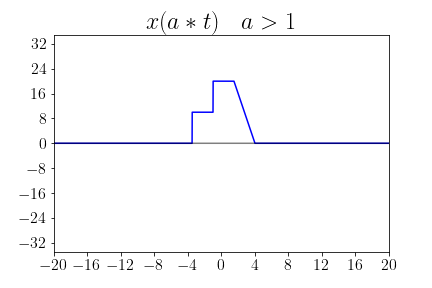
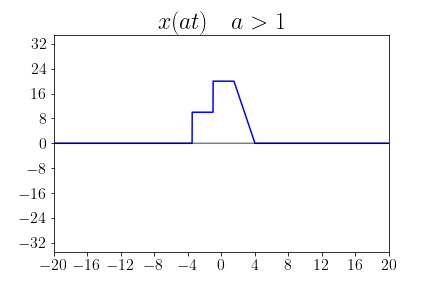
Update documentation

Changed region(s): [[0.331, 0.0312, 0.6921, 0.125]]

diff --git a/courses/dsp/systems.html b/courses/dsp/systems.html
@@ -909,21 +909,6 @@ table th:nth-of-type(2) {
 <span class="n">a</span><span class="o">=</span><span class="mi">2</span>
 
 <span class="n">fig</span><span class="p">,</span> <span class="n">ax</span> <span class="o">=</span> <span class="n">plt</span><span class="o">.</span><span class="n">subplots</span><span class="p">(</span><span class="mi">1</span><span class="p">,</span> <span class="mi">1</span><span class="p">)</span>
-<span class="n">mpl_axes_plot</span><span class="p">(</span><span class="n">ax</span><span class="p">,</span> <span class="n">f</span><span class="o">.</span><span class="n">subs</span><span class="p">(</span><span class="n">t</span><span class="p">,</span> <span class="n">t</span><span class="o">*</span><span class="n">a</span><span class="p">),</span> <span class="p">(</span><span class="n">t</span><span class="p">,</span> <span class="o">-</span><span class="mi">20</span><span class="p">,</span> <span class="mi">20</span><span class="p">),</span> <span class="n">color</span><span class="o">=</span><span class="s1">&#39;b&#39;</span><span class="p">)</span>
-<span class="n">ax</span><span class="o">.</span><span class="n">set_xlim</span><span class="p">(</span><span class="o">-</span><span class="mi">20</span><span class="p">,</span> <span class="mi">20</span><span class="p">,</span> <span class="mf">0.2</span><span class="p">)</span>
-<span class="n">ax</span><span class="o">.</span><span class="n">set_ylim</span><span class="p">(</span><span class="o">-</span><span class="mi">35</span><span class="p">,</span> <span class="mi">35</span><span class="p">,</span> <span class="mf">0.2</span><span class="p">)</span>
-<span class="n">ax</span><span class="o">.</span><span class="n">set_title</span><span class="p">(</span><span class="sa">r</span><span class="s1">&#39;$x(a*t) \quad a&gt;1$&#39;</span><span class="p">)</span>
-<span class="n">plt</span><span class="o">.</span><span class="n">savefig</span><span class="p">(</span><span class="n">os</span><span class="o">.</span><span class="n">path</span><span class="o">.</span><span class="n">join</span><span class="p">(</span><span class="n">saved_dir</span><span class="p">,</span><span class="s1">&#39;signals_a_lt_1_gt_0_ct.png&#39;</span><span class="p">));</span> <span class="n">plt</span><span class="o">.</span><span class="n">close</span><span class="p">()</span>
-
-<span class="n">fig</span><span class="p">,</span> <span class="n">ax</span> <span class="o">=</span> <span class="n">plt</span><span class="o">.</span><span class="n">subplots</span><span class="p">(</span><span class="mi">1</span><span class="p">,</span> <span class="mi">1</span><span class="p">)</span>
-<span class="n">mpl_axes_stem</span><span class="p">(</span><span class="n">ax</span><span class="p">,</span> <span class="n">f</span><span class="o">.</span><span class="n">subs</span><span class="p">(</span><span class="n">t</span><span class="p">,</span> <span class="n">t</span><span class="o">*</span><span class="n">a</span><span class="p">),</span> <span class="p">(</span><span class="n">t</span><span class="p">,</span> <span class="o">-</span><span class="mi">30</span><span class="p">,</span> <span class="mi">30</span><span class="p">,</span> <span class="mi">1</span><span class="p">),</span> <span class="n">linefmt</span><span class="o">=</span><span class="s1">&#39;b&#39;</span><span class="p">,</span> <span class="n">markerfmt</span><span class="o">=</span><span class="s1">&#39;bo&#39;</span><span class="p">)</span>
-<span class="n">ax</span><span class="o">.</span><span class="n">set_xlim</span><span class="p">(</span><span class="o">-</span><span class="mi">20</span><span class="p">,</span> <span class="mi">20</span><span class="p">,</span> <span class="mf">0.2</span><span class="p">)</span>
-<span class="n">ax</span><span class="o">.</span><span class="n">set_ylim</span><span class="p">(</span><span class="o">-</span><span class="mi">35</span><span class="p">,</span> <span class="mi">35</span><span class="p">,</span> <span class="mf">0.2</span><span class="p">)</span>
-<span class="n">ax</span><span class="o">.</span><span class="n">set_title</span><span class="p">(</span><span class="sa">r</span><span class="s1">&#39;$x[a*n] \quad a&gt;1$&#39;</span><span class="p">)</span>
-<span class="n">plt</span><span class="o">.</span><span class="n">savefig</span><span class="p">(</span><span class="n">os</span><span class="o">.</span><span class="n">path</span><span class="o">.</span><span class="n">join</span><span class="p">(</span><span class="n">saved_dir</span><span class="p">,</span><span class="s1">&#39;signals_a_lt_1_gt_0_dt.png&#39;</span><span class="p">));</span> <span class="n">plt</span><span class="o">.</span><span class="n">close</span><span class="p">()</span>
-
-
-<span class="n">fig</span><span class="p">,</span> <span class="n">ax</span> <span class="o">=</span> <span class="n">plt</span><span class="o">.</span><span class="n">subplots</span><span class="p">(</span><span class="mi">1</span><span class="p">,</span> <span class="mi">1</span><span class="p">)</span>
 <span class="n">mpl_axes_plot</span><span class="p">(</span><span class="n">ax</span><span class="p">,</span> <span class="n">f</span><span class="o">.</span><span class="n">subs</span><span class="p">(</span><span class="n">t</span><span class="p">,</span> <span class="n">t</span><span class="o">/</span><span class="n">a</span><span class="p">),</span> <span class="p">(</span><span class="n">t</span><span class="p">,</span> <span class="o">-</span><span class="mi">20</span><span class="p">,</span> <span class="mi">20</span><span class="p">),</span> <span class="n">color</span><span class="o">=</span><span class="s1">&#39;b&#39;</span><span class="p">)</span>
 <span class="n">ax</span><span class="o">.</span><span class="n">set_xlim</span><span class="p">(</span><span class="o">-</span><span class="mi">20</span><span class="p">,</span> <span class="mi">20</span><span class="p">,</span> <span class="mf">0.2</span><span class="p">)</span>
 <span class="n">ax</span><span class="o">.</span><span class="n">set_ylim</span><span class="p">(</span><span class="o">-</span><span class="mi">35</span><span class="p">,</span> <span class="mi">35</span><span class="p">,</span> <span class="mf">0.2</span><span class="p">)</span>
@@ -936,6 +921,20 @@ table th:nth-of-type(2) {
 <span class="n">ax</span><span class="o">.</span><span class="n">set_ylim</span><span class="p">(</span><span class="o">-</span><span class="mi">35</span><span class="p">,</span> <span class="mi">35</span><span class="p">,</span> <span class="mf">0.2</span><span class="p">)</span>
 <span class="n">ax</span><span class="o">.</span><span class="n">set_title</span><span class="p">(</span><span class="sa">r</span><span class="s1">&#39;$x[n/a] \quad a&gt;1$&#39;</span><span class="p">)</span>
 <span class="n">plt</span><span class="o">.</span><span class="n">savefig</span><span class="p">(</span><span class="n">os</span><span class="o">.</span><span class="n">path</span><span class="o">.</span><span class="n">join</span><span class="p">(</span><span class="n">saved_dir</span><span class="p">,</span><span class="s1">&#39;signals_a_gt_1_dt.png&#39;</span><span class="p">));</span> <span class="n">plt</span><span class="o">.</span><span class="n">close</span><span class="p">()</span>
+
+<span class="n">fig</span><span class="p">,</span> <span class="n">ax</span> <span class="o">=</span> <span class="n">plt</span><span class="o">.</span><span class="n">subplots</span><span class="p">(</span><span class="mi">1</span><span class="p">,</span> <span class="mi">1</span><span class="p">)</span>
+<span class="n">mpl_axes_plot</span><span class="p">(</span><span class="n">ax</span><span class="p">,</span> <span class="n">f</span><span class="o">.</span><span class="n">subs</span><span class="p">(</span><span class="n">t</span><span class="p">,</span> <span class="n">t</span><span class="o">*</span><span class="n">a</span><span class="p">),</span> <span class="p">(</span><span class="n">t</span><span class="p">,</span> <span class="o">-</span><span class="mi">20</span><span class="p">,</span> <span class="mi">20</span><span class="p">),</span> <span class="n">color</span><span class="o">=</span><span class="s1">&#39;b&#39;</span><span class="p">)</span>
+<span class="n">ax</span><span class="o">.</span><span class="n">set_xlim</span><span class="p">(</span><span class="o">-</span><span class="mi">20</span><span class="p">,</span> <span class="mi">20</span><span class="p">,</span> <span class="mf">0.2</span><span class="p">)</span>
+<span class="n">ax</span><span class="o">.</span><span class="n">set_ylim</span><span class="p">(</span><span class="o">-</span><span class="mi">35</span><span class="p">,</span> <span class="mi">35</span><span class="p">,</span> <span class="mf">0.2</span><span class="p">)</span>
+<span class="n">ax</span><span class="o">.</span><span class="n">set_title</span><span class="p">(</span><span class="sa">r</span><span class="s1">&#39;$x(at) \quad a&gt;1$&#39;</span><span class="p">)</span>
+<span class="n">plt</span><span class="o">.</span><span class="n">savefig</span><span class="p">(</span><span class="n">os</span><span class="o">.</span><span class="n">path</span><span class="o">.</span><span class="n">join</span><span class="p">(</span><span class="n">saved_dir</span><span class="p">,</span><span class="s1">&#39;signals_a_lt_1_gt_0_ct.png&#39;</span><span class="p">));</span> <span class="n">plt</span><span class="o">.</span><span class="n">close</span><span class="p">()</span>
+
+<span class="n">fig</span><span class="p">,</span> <span class="n">ax</span> <span class="o">=</span> <span class="n">plt</span><span class="o">.</span><span class="n">subplots</span><span class="p">(</span><span class="mi">1</span><span class="p">,</span> <span class="mi">1</span><span class="p">)</span>
+<span class="n">mpl_axes_stem</span><span class="p">(</span><span class="n">ax</span><span class="p">,</span> <span class="n">f</span><span class="o">.</span><span class="n">subs</span><span class="p">(</span><span class="n">t</span><span class="p">,</span> <span class="n">t</span><span class="o">*</span><span class="n">a</span><span class="p">),</span> <span class="p">(</span><span class="n">t</span><span class="p">,</span> <span class="o">-</span><span class="mi">30</span><span class="p">,</span> <span class="mi">30</span><span class="p">,</span> <span class="mi">1</span><span class="p">),</span> <span class="n">linefmt</span><span class="o">=</span><span class="s1">&#39;b&#39;</span><span class="p">,</span> <span class="n">markerfmt</span><span class="o">=</span><span class="s1">&#39;bo&#39;</span><span class="p">)</span>
+<span class="n">ax</span><span class="o">.</span><span class="n">set_xlim</span><span class="p">(</span><span class="o">-</span><span class="mi">20</span><span class="p">,</span> <span class="mi">20</span><span class="p">,</span> <span class="mf">0.2</span><span class="p">)</span>
+<span class="n">ax</span><span class="o">.</span><span class="n">set_ylim</span><span class="p">(</span><span class="o">-</span><span class="mi">35</span><span class="p">,</span> <span class="mi">35</span><span class="p">,</span> <span class="mf">0.2</span><span class="p">)</span>
+<span class="n">ax</span><span class="o">.</span><span class="n">set_title</span><span class="p">(</span><span class="sa">r</span><span class="s1">&#39;$x[an] \quad a&gt;1$&#39;</span><span class="p">)</span>
+<span class="n">plt</span><span class="o">.</span><span class="n">savefig</span><span class="p">(</span><span class="n">os</span><span class="o">.</span><span class="n">path</span><span class="o">.</span><span class="n">join</span><span class="p">(</span><span class="n">saved_dir</span><span class="p">,</span><span class="s1">&#39;signals_a_lt_1_gt_0_dt.png&#39;</span><span class="p">));</span> <span class="n">plt</span><span class="o">.</span><span class="n">close</span><span class="p">()</span>
 </pre></div>
 </div>
 </div>
